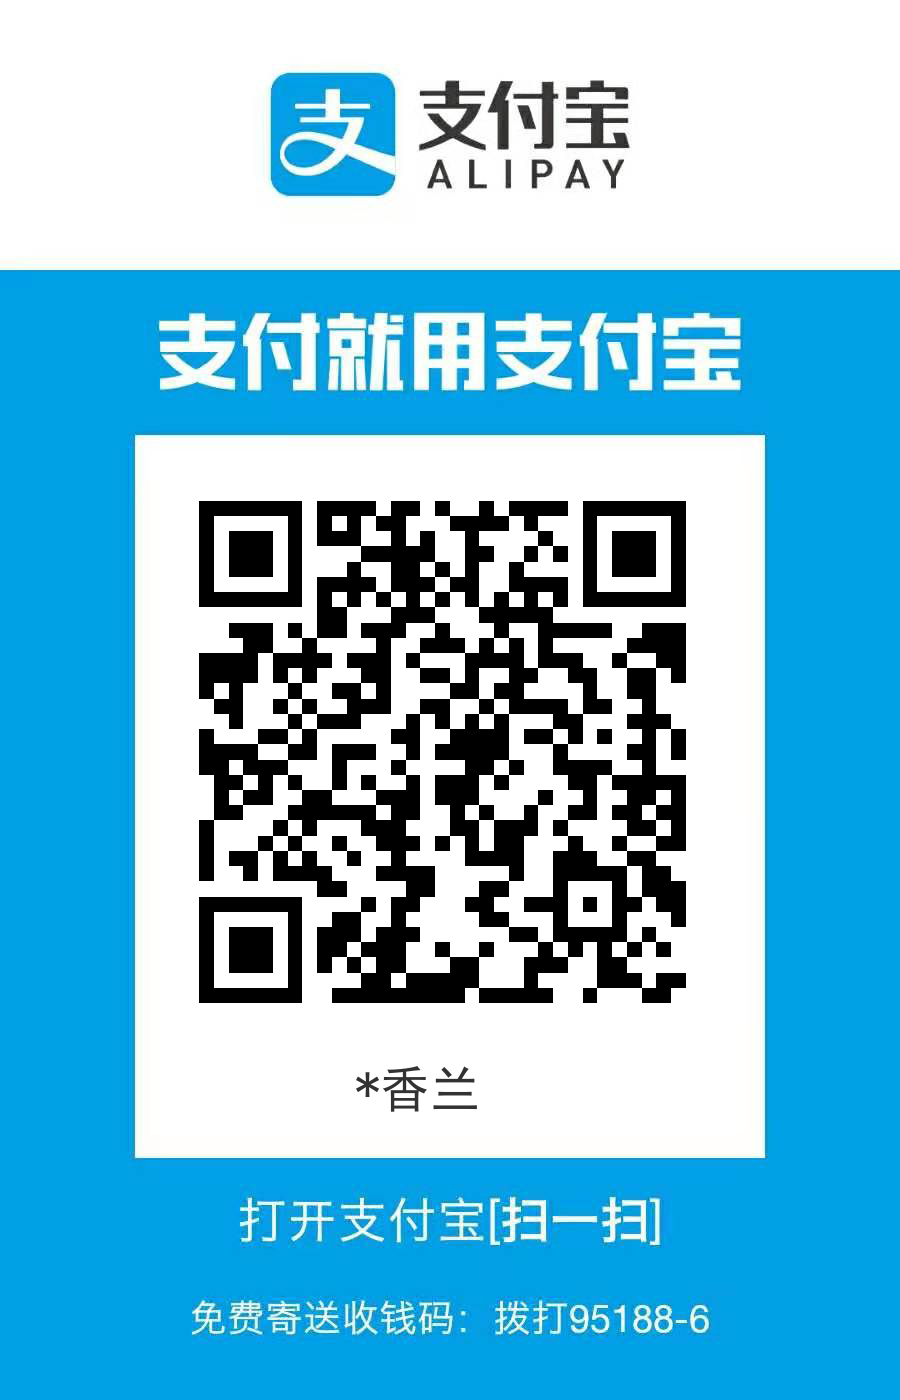
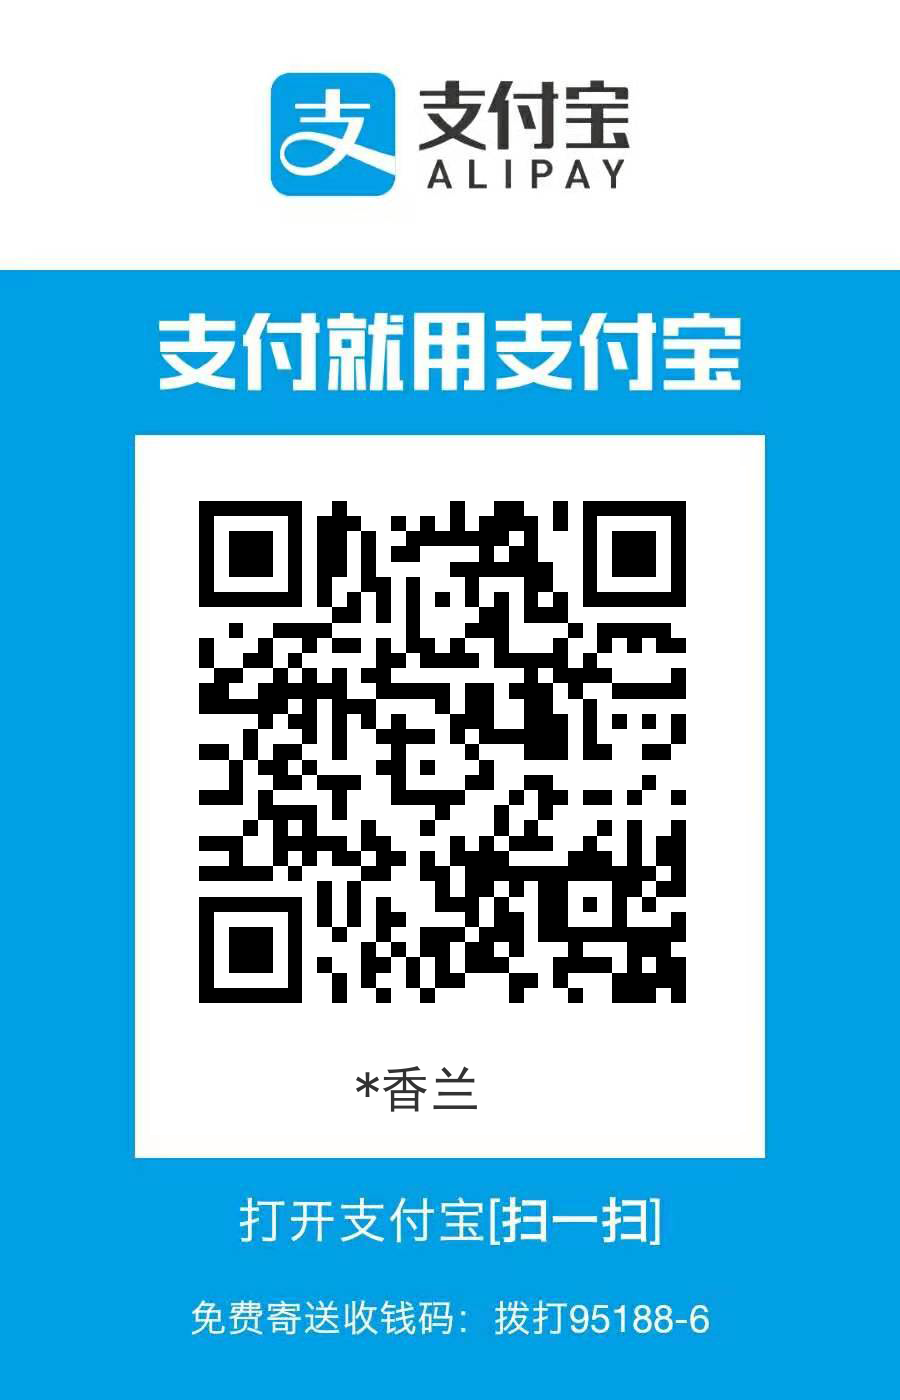
1

Changed region(s): [[0.2178, 0.3379, 0.7778, 0.7371]]

diff --git a/小爬虫/转账码生成/余额转账码/spider.py b/小爬虫/转账码生成/余额转账码/spider.py
@@ -191,7 +191,7 @@ class Spider:
         # _url = f'https://ds.alipay.com/?from=mobilecodec&scheme=alipays%3A%2F%2Fplatformapi%2Fstartapp%3FappId%3D20000200%26actionType%3DtoAccount%26account%3D{content[1]}%26amount%3D%26memo%3D'
 
         # 固定金额 备注 不可修改
-        # _url = 'https://ds.alipay.com/?appId=20000123&actionType=scan&biz_data={"u":"2088732756841973","a":1,"m":"%E5%A4%87%E6%B3%A8%E4%BF%A1%E6%81%AF%3A%E9%87%91%E9%A2%9D%E4%B8%8D%E5%8F%AF%E6%94%B9%E5%8F%98"}'
+        # _url = 'https://ds.alipay.com/?appId=20000123&actionType=scan&biz_data={"u":"2088902532716171","a":1,"m":"%E5%A4%87%E6%B3%A8%E4%BF%A1%E6%81%AF%3A%E9%87%91%E9%A2%9D%E4%B8%8D%E5%8F%AF%E6%94%B9%E5%8F%98"}'
         # 付款接口
         # fukuan = 'fkx08454npzfffdxvvhjs30'
         # _url = f'https://mobilecodec.alipay.com/client_download.htm?qrcode={fukuan}'
